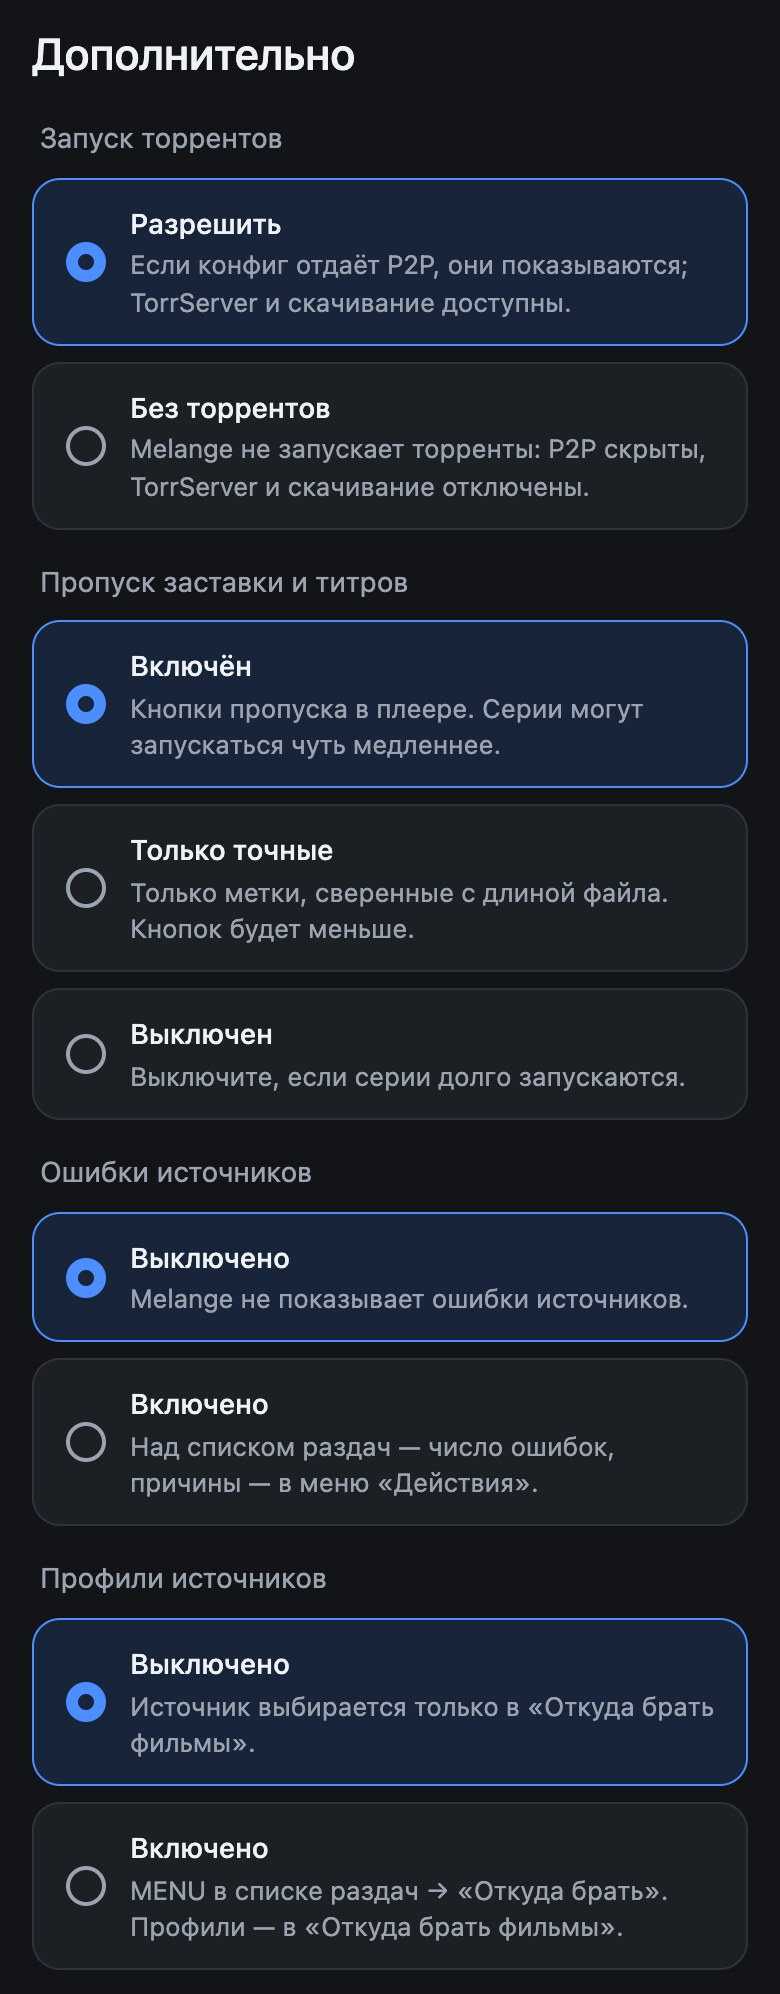
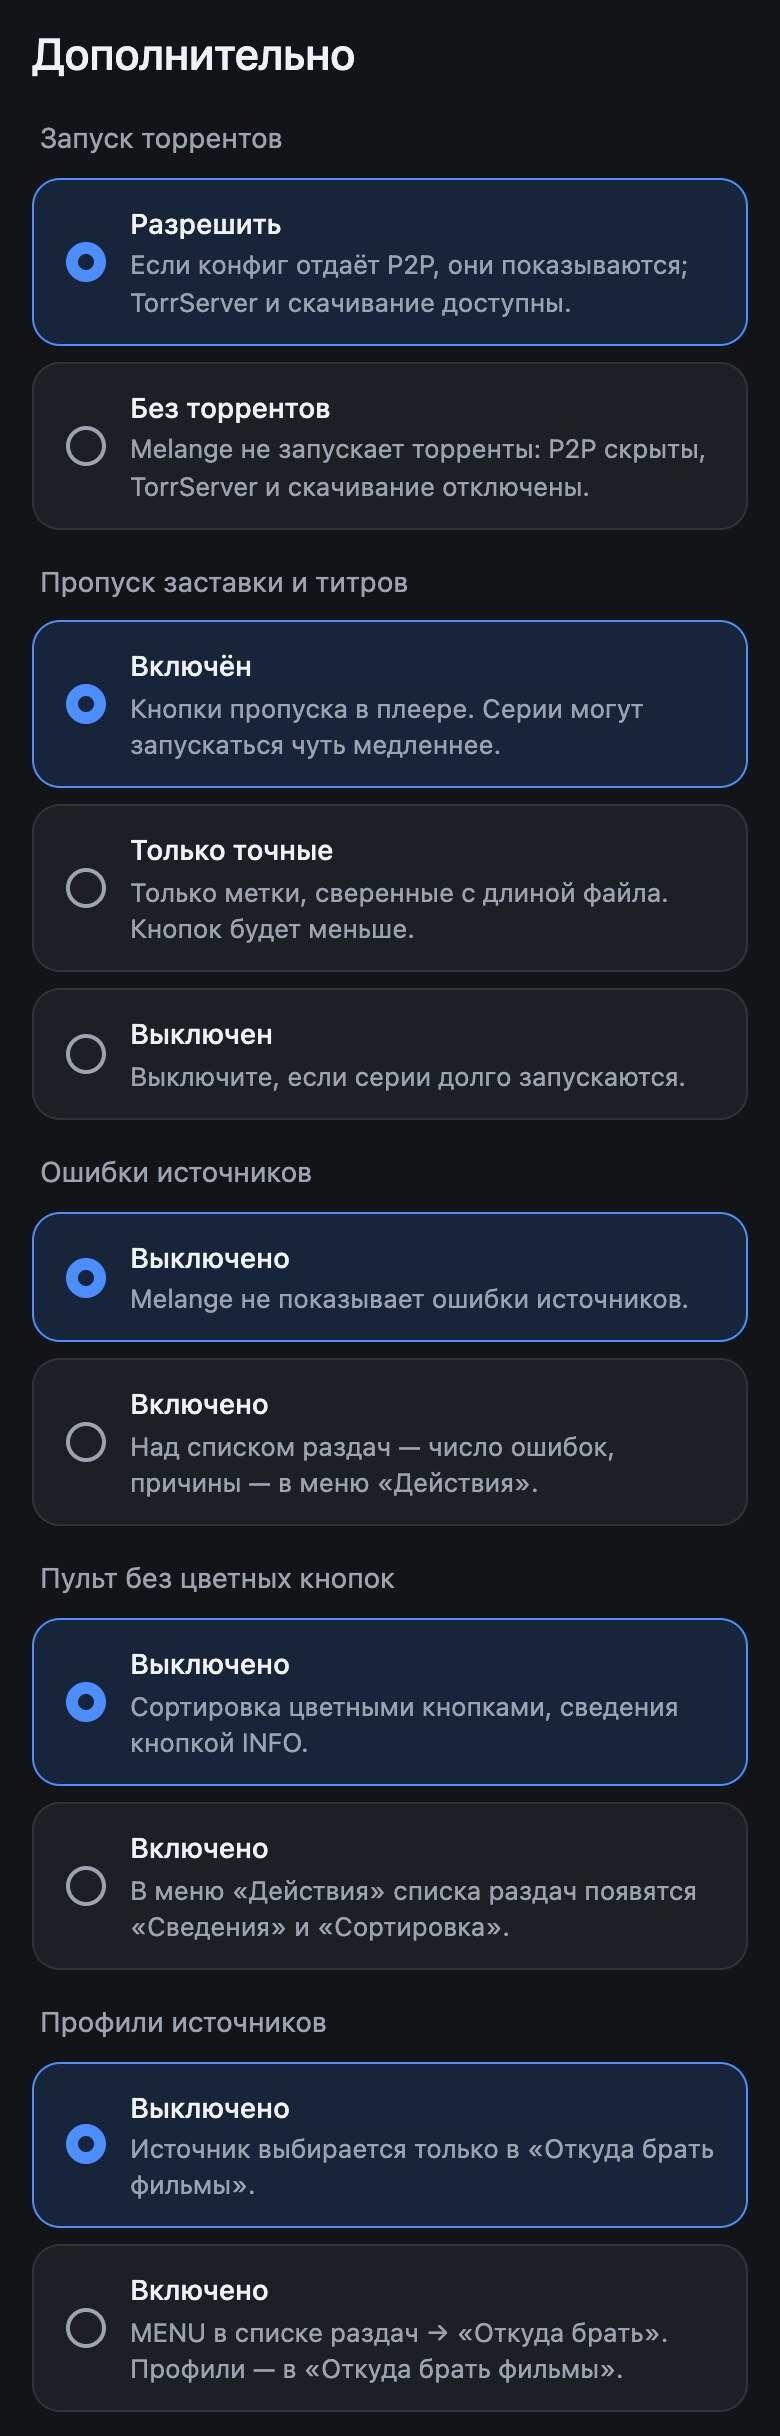
docs: «Пульт без цветных кнопок» во вступлении и кадре главы «Дополнительно»

Changed region(s): [[0.0308, 0.0, 0.9846, 0.995], [0.9231, 0.4975, 0.9846, 0.5597]]

diff --git a/docs/advanced-options.md b/docs/advanced-options.md
@@ -1,10 +1,10 @@
 # Дополнительно
 
-Решим, запускать ли торренты, нужны ли кнопки пропуска заставки и показывать ли ошибки источников. [← Оглавление](README.md)
+Решим, запускать ли торренты, нужны ли кнопки пропуска заставки и показывать ли ошибки источников. Если на пульте нет цветных кнопок, здесь же можно перенести сортировку и сведения о раздаче в меню. [← Оглавление](README.md)
 
 1. На странице настроек ([Страница настроек с телефона](phone-page.md)) откройте «Дополнительно».
 
-   <img src="../screenshots/advanced-screen.jpg" alt="Экран «Дополнительно»: «Запуск торрентов», «Пропуск заставки и титров», «Ошибки источников», «Профили источников»" width="300">
+   <img src="../screenshots/advanced-screen.jpg" alt="Экран «Дополнительно»: «Запуск торрентов», «Пропуск заставки и титров», «Ошибки источников», «Пульт без цветных кнопок», «Профили источников»" width="300">
 
 2. «Запуск торрентов»: оставьте «Разрешить». «Без торрентов» — если торренты на Дюне вам не нужны совсем ([Известные ограничения](limitations.md#без-торрентов)).
 

diff --git a/docs/advanced-options.en.md b/docs/advanced-options.en.md
@@ -1,10 +1,10 @@
 # Advanced
 
-Choose whether Melange starts torrents, shows skip-intro buttons and reports source errors. [← Contents](README.en.md)
+Choose whether Melange starts torrents, shows skip-intro buttons and reports source errors. If your remote has no colour buttons, you can also move sorting and release details into the menu here. [← Contents](README.en.md)
 
 1. On the settings page ([Settings page on a phone](phone-page.en.md)), open "Advanced".
 
-   <img src="../screenshots/advanced-screen.jpg" alt="Advanced screen: Running torrents, Skip intro and credits, Source errors, Source profiles" width="300">
+   <img src="../screenshots/advanced-screen.jpg" alt="Advanced screen: Running torrents, Skip intro and credits, Source errors, Remote without colour buttons, Source profiles" width="300">
 
 2. "Running torrents": leave "Allow". Choose "No torrents" if you do not need torrents on the Dune at all ([Known limitations](limitations.en.md)).
 
